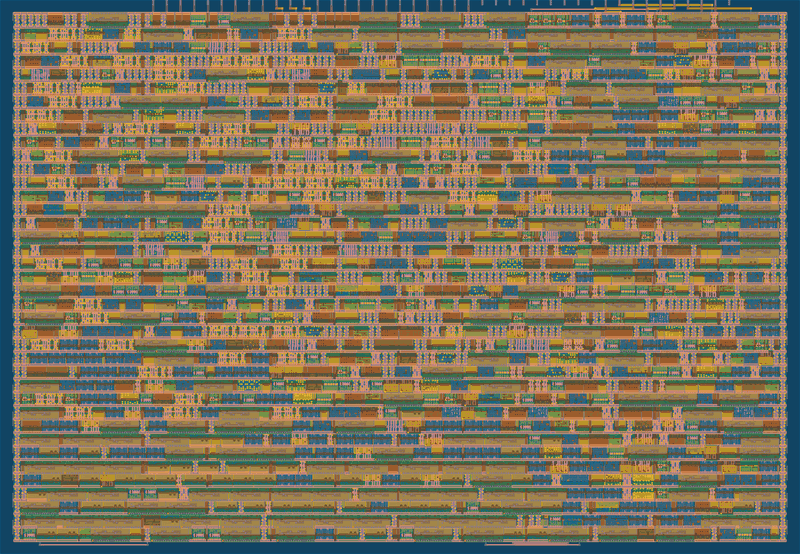
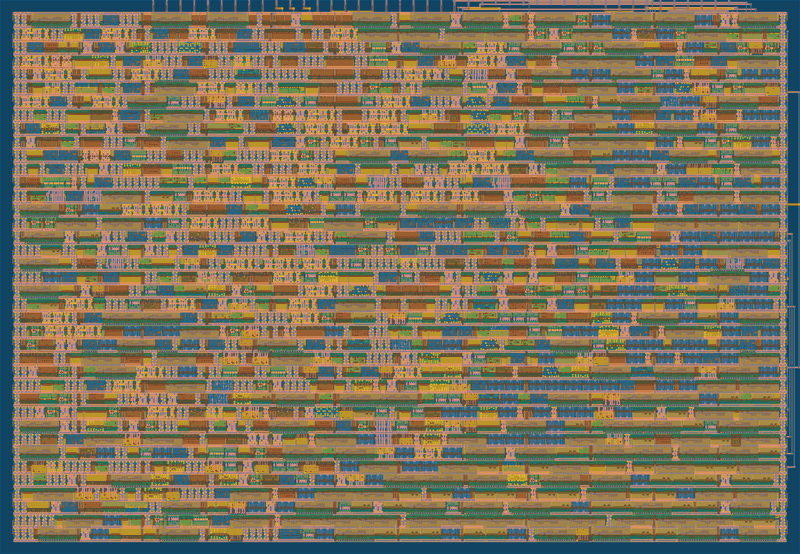
Halve the speed of the ball and paddle
Moves are spread over a 4-frame cycle: 2, 3, 4, 5 or 6 per 4 frames for 1x to
3x, half the old rate (a 2-bit frame_phase replaces odd_frame). The direction
now takes in each frame's collisions at frame_tick even in a frame without a
move; otherwise a cleared brick's bounce was lost and the ball ploughed on.

Hardened: utilisation 81.5% to 82.4%, 0 DRC, LVS and antenna errors, netlist
proven equivalent. The scenarios check the speeds over 4-frame windows and wait
up to two frames for a new ball to settle; test.py compares the paddle two
frames apart. The README's figures and layout picture are brought up to date.

diff --git a/test/system/scenarios.cpp b/test/system/scenarios.cpp
@@ -133,6 +133,13 @@ View run(Game &g, int frames, bool find_ball = true) {
 // the view once that game's wall is in.
 View start_game(Game &g) { return run(g, 4); }
 
+// A new ball goes onto the paddle at the next move, and at 1x every other frame has none:
+// runs up to 2 more frames for it to come to rest.
+View settle(Game &g, View v) {
+  for (int i = 0; i < 2 && !resting(v); i++) v = run(g, 1);
+  return v;
+}
+
 // ---- Scenarios ---------------------------------------------------------------------------
 
 // A new game shows the full wall, two spare balls and the ball resting on the paddle; it
@@ -149,12 +156,13 @@ void launch() {
   g.buttons = FIRE;
   run(g, 1);
   g.buttons = 0;
-  v = run(g, 10);
+  v = run(g, 20);
   CHECK(v.ball && v.ball_y < 440 - 10, "ball not launched upwards: y %d", v.ball_y);
 }
 
-// The paddle moves 4 px per frame while LEFT or RIGHT is held, from either the direct pins
-// or the gamepad; both together cancel out. The resting ball moves with it.
+// The paddle moves 4 px every other frame (at the base speed) while LEFT or RIGHT is held,
+// from either the direct pins or the gamepad; both together cancel out. The resting ball
+// moves with it.
 void steering() {
   for (int source = 0; source < 2; source++) {
     const char *name = source ? "gamepad" : "direct pins";
@@ -174,10 +182,10 @@ void steering() {
             v.paddle_x);
     }
     int x1 = v.paddle_x;
-    CHECK(x1 >= x0 + 32 && x1 <= x0 + 40, "%s: right moved the paddle %d -> %d", name, x0, x1);
+    CHECK(x1 >= x0 + 16 && x1 <= x0 + 24, "%s: right moved the paddle %d -> %d", name, x0, x1);
     press(g, true, false);
     int x2 = run(g, 10).paddle_x;
-    CHECK(x2 <= x1 - 32 && x2 >= x1 - 40, "%s: left moved the paddle %d -> %d", name, x1, x2);
+    CHECK(x2 <= x1 - 16 && x2 >= x1 - 24, "%s: left moved the paddle %d -> %d", name, x1, x2);
     press(g, true, true);
     int x3 = run(g, 2).paddle_x;
     int x4 = run(g, 10).paddle_x;
@@ -193,10 +201,10 @@ void paddle_limits() {
   g.reset();
   start_game(g);
   g.buttons = LEFT;
-  View v = run(g, 100);
+  View v = run(g, 200);
   CHECK(v.paddle_x == 64, "left limit %d", v.paddle_x);
   g.buttons = RIGHT;
-  v = run(g, 150);
+  v = run(g, 300);
   CHECK(v.paddle_x == 512, "right limit %d", v.paddle_x);
 }
 
@@ -289,7 +297,7 @@ void game_over_curtain() {
   g.buttons = FIRE;
   run(g, 1);
   g.buttons = 0;
-  v = run(g, 2);
+  v = settle(g, run(g, 2));
   CHECK(black_from_top(g) == 24, "after restart: %d black lines from the top", black_from_top(g));
   CHECK(v.bricks == 48 && v.lives == 2 && v.score == 0 && resting(v),
         "after restart: %d bricks, %d markers, score %d, ball at (%d, %d)", v.bricks, v.lives,
@@ -299,7 +307,7 @@ void game_over_curtain() {
 void game_over_and_restart() {
   Game g;
   g.reset();
-  int expected_lives = 2, frame = 0, missing = 0, since_launch = 1000, prev_y = -1;
+  int expected_lives = 2, frame = 0, missing = 0, since_launch = 1000, prev_y = -1, prev_dy = 0;
   View v = start_game(g);
   for (; frame < 20000; frame++) {
     // Keep the paddle against the left wall, and launch whenever the ball is resting.
@@ -307,11 +315,14 @@ void game_over_and_restart() {
     g.buttons = LEFT | (launch ? FIRE : 0);
     since_launch = launch ? 0 : since_launch + 1;
     v = run(g, 1);
-    // Every new ball starts at the base speed, 2 px per frame, however fast the last one was.
-    if (since_launch >= 2 && since_launch < 12)
-      CHECK(v.ball && std::abs(v.ball_y - prev_y) == 2, "frame %d: new ball moved %d px",
-            frame, std::abs(v.ball_y - prev_y));
+    // Every new ball starts at the base speed, a 2-px move every other frame, however fast
+    // the last one was.
+    int dy = std::abs(v.ball_y - prev_y);
+    if (since_launch >= 3 && since_launch < 12)
+      CHECK(v.ball && (dy == 0 || dy == 2) && dy + prev_dy == 2,
+            "frame %d: new ball moved %d then %d px", frame, prev_dy, dy);
     prev_y = v.ball_y;
+    prev_dy = dy;
     if (v.lives != expected_lives) {
       CHECK(v.lives == expected_lives - 1, "frame %d: life markers %d -> %d", frame,
             expected_lives, v.lives);
@@ -333,7 +344,7 @@ void game_over_and_restart() {
   g.buttons = FIRE;
   run(g, 1);
   g.buttons = 0;
-  v = run(g, 2);
+  v = settle(g, run(g, 2));
   CHECK(v.lives == 2, "after restart: life markers %d", v.lives);
   CHECK(v.score == 0, "after restart: score %d", v.score);
   CHECK(v.bricks == 48, "after restart: bricks %d", v.bricks);
@@ -349,7 +360,7 @@ void autoplay_clears_a_level() {
   int fewest = 48, frame = 0, lives_lost = 0, lives = 2, prev_bricks = 48;
   bool cleared = false;
   View v = start_game(g);
-  for (; frame < 40000 && !cleared; frame++) {
+  for (; frame < 80000 && !cleared; frame++) {
     v = run(g, 1, false);
     if (v.lives < lives) lives_lost += lives - v.lives;
     lives = v.lives;
@@ -368,40 +379,36 @@ void autoplay_clears_a_level() {
   CHECK(v.score == 480, "score %d after clearing the level", v.score);
 }
 
-// The ball speeds up a half step every 4 bricks it clears: vertically it moves 2 px per
-// frame at first (1x), then alternately 2 and 4 (1.5x), 4 (2x), alternately 4 and 6
-// (2.5x), and 6 px (3x) once it has cleared 16.
+// The ball speeds up a half step every 4 bricks it clears: vertically it moves 4 px per 4
+// frames at first (1x), then 6 (1.5x), 8 (2x), 10 (2.5x), and 12 px (3x) once it has
+// cleared 16.
 void ball_speeds_up() {
   Game g;
   g.reset();
   g.autoplay = true;
   View v = start_game(g);
   int prev_y = v.ball_y, prev_bricks = v.bricks, frame = 0, checked[5] = {};
-  int prev_dy = 0, prev_step = -1;
-  for (; frame < 10000 && v.lives == 2 && v.bricks > 28; frame++) {
+  int run_step = -1, run_len = 0, window[4] = {};  // vertical moves of the last 4 frames
+  for (; frame < 20000 && v.lives == 2 && v.bricks > 28; frame++) {
     v = run(g, 1);
     int dy = std::abs(v.ball_y - prev_y), cleared = 48 - v.bricks;
     bool steady = v.bricks == prev_bricks;  // the picture's count lags a brick cleared mid-frame
     prev_y = v.ball_y;
     prev_bricks = v.bricks;
-    if (!v.ball || dy == 0 || !steady || resting(v)) {
-      prev_step = -1;  // no alternation check across a gap
+    if (!v.ball || !steady || resting(v)) {
+      run_len = 0;  // no window across a gap
       continue;
     }
     int step = cleared / 4 < 4 ? cleared / 4 : 4;  // 0..4: 1x, 1.5x, 2x, 2.5x, 3x
-    if (step % 2 == 0) {
-      CHECK(dy == 2 + step, "frame %d: %d bricks cleared, moved %d px (expected %d)", frame,
-            cleared, dy, 2 + step);
-    } else {
-      CHECK(dy == 1 + step || dy == 3 + step, "frame %d: %d bricks cleared, moved %d px (expected %d or %d)",
-            frame, cleared, dy, 1 + step, 3 + step);
-      if (prev_step == step)
-        CHECK(dy != prev_dy, "frame %d: %d bricks cleared, moved %d px twice in a row", frame,
-              cleared, dy);
+    if (step != run_step) run_len = 0;
+    run_step = step;
+    window[run_len++ % 4] = dy;
+    if (run_len >= 4) {
+      int sum = window[0] + window[1] + window[2] + window[3];
+      CHECK(sum == 4 + 2 * step, "frame %d: %d bricks cleared, moved %d px in 4 frames (expected %d)",
+            frame, cleared, sum, 4 + 2 * step);
+      checked[step]++;
     }
-    checked[step]++;
-    prev_dy = dy;
-    prev_step = step;
   }
   printf("frame %5d: frames checked at 1x/1.5x/2x/2.5x/3x: %d/%d/%d/%d/%d\n", frame, checked[0],
          checked[1], checked[2], checked[3], checked[4]);
@@ -415,7 +422,7 @@ void brick_bounces() {
   Game g;
   g.reset();
   g.autoplay = true;
-  constexpr int N = 2500;
+  constexpr int N = 15000;
   static View v[N];
   start_game(g);
   for (int t = 0; t < N; t++) v[t] = run(g, 1);
@@ -431,8 +438,13 @@ void brick_bounces() {
              w.ball_y + 8 > by;
     };
     int c = overlaps(v[s - 1]) ? s - 1 : s;
-    const View &p = v[c - 1], &h = v[c], &n = v[c + 1];
-    if (!p.ball || !h.ball || !n.ball || !overlaps(h)) continue;
+    // Some frames have no move: compare with the nearest frames where the ball moved
+    auto moved = [&](int i) { return v[i].ball_x != v[c].ball_x || v[i].ball_y != v[c].ball_y; };
+    int pi = c - 1, ni = c + 1;
+    while (pi > 0 && !moved(pi)) pi--;
+    while (ni + 1 < N && !moved(ni)) ni++;
+    const View &p = v[pi], &h = v[c], &n = v[ni];
+    if (!p.ball || !h.ball || !n.ball || !overlaps(h) || !moved(pi) || !moved(ni)) continue;
     if (h.ball_x < 80 || h.ball_x > 560 || h.ball_y < 48) continue;  // walls could interfere
     bool left = h.ball_x < p.ball_x, up = h.ball_y < p.ball_y;
     int past_side = left ? bx + 62 - h.ball_x : h.ball_x + 8 - bx;
@@ -449,21 +461,22 @@ void brick_bounces() {
   CHECK(checked[0] > 0 && checked[1] > 0, "did not see both kinds of bounce");
 }
 
-// Waits for the launch, then returns whether the ball's vertical steps alternate 2, 4, 2 ...
-// px (1.5x) for `frames` frames.
-bool launch_steps_alternate_2_4(Game &g, View &v, int frames) {
+// Waits for the launch, then returns whether the ball rises at 1.5x for `frames` frames:
+// moves of 2 px, 6 px in every 4 frames.
+bool launch_at_1_5x(Game &g, View &v, int frames) {
   for (int i = 0; i < 2000 && resting(v); i++) v = run(g, 1);  // wait for the launch
-  int prev_y = v.ball_y, prev_dy = 0;
+  int prev_y = v.ball_y, dys[64] = {};
   bool ok = true;
-  for (int i = 0; i < frames; i++) {
+  for (int i = 0; i < frames && i < 64; i++) {
     v = run(g, 1);
-    int dy = prev_y - v.ball_y;
+    dys[i] = prev_y - v.ball_y;
     prev_y = v.ball_y;
-    if ((dy != 2 && dy != 4) || dy == prev_dy) {
-      printf("  launch frame %d: moved %d px up (previous %d)\n", i, dy, prev_dy);
-      ok = false;
+    if (dys[i] != 0 && dys[i] != 2) ok = false;
+    if (i >= 3 && dys[i] + dys[i - 1] + dys[i - 2] + dys[i - 3] != 6) ok = false;
+    if (!ok) {
+      printf("  launch frame %d: moved %d px up\n", i, dys[i]);
+      return false;
     }
-    prev_dy = dy;
   }
   return ok;
 }
@@ -483,7 +496,7 @@ void level_cleared() {
   CHECK(v.lives == 1, "frame %d: still %d spare balls", frame, v.lives);
   g.buttons = 0;
   g.autoplay = true;
-  for (; frame < 30000 && v.bricks > 0; frame++) v = run(g, 1, false);
+  for (; frame < 60000 && v.bricks > 0; frame++) v = run(g, 1, false);
   CHECK(v.bricks == 0, "frame %d: level not cleared (%d bricks)", frame, v.bricks);
   int pause = 0;
   for (; pause < 100 && v.bricks == 0; pause++) v = run(g, 1, false);
@@ -492,10 +505,10 @@ void level_cleared() {
   v = run(g, 1);  // past the filling frame
   CHECK(v.bricks == 48, "level 2 wall has %d bricks", v.bricks);
   CHECK(v.lives == 2, "%d spare balls after the level (expected one back)", v.lives);
-  CHECK(launch_steps_alternate_2_4(g, v, 12), "level 2 ball did not start at 1.5x");
+  CHECK(launch_at_1_5x(g, v, 16), "level 2 ball did not start at 1.5x");
   // Lose a ball in level 2: the next one starts at the level's speed again
   g.autoplay = false;
-  for (int i = 0; i < 5000 && v.lives == 2; i++) {
+  for (int i = 0; i < 10000 && v.lives == 2; i++) {
     g.buttons = LEFT;
     v = run(g, 1);
   }
@@ -504,7 +517,7 @@ void level_cleared() {
   g.buttons = FIRE;
   v = run(g, 1);
   g.buttons = 0;
-  CHECK(launch_steps_alternate_2_4(g, v, 12), "level 2 ball after a loss did not start at 1.5x");
+  CHECK(launch_at_1_5x(g, v, 16), "level 2 ball after a loss did not start at 1.5x");
 }
 
 // With no controller connected the game plays itself (demo): with no Gamepad PMOD at all,
@@ -520,17 +533,17 @@ void demo_until_a_controller_or_button() {
     else g.pmod_plugged = false;
     View v = run(g, 4);
     int bricks0 = v.bricks;
-    v = run(g, 600);
-    CHECK(v.bricks < bricks0, "%s: demo cleared no bricks in 600 frames (%d left)", name, v.bricks);
+    v = run(g, 900);
+    CHECK(v.bricks < bricks0, "%s: demo cleared no bricks in 900 frames (%d left)", name, v.bricks);
     CHECK(!resting(v), "%s: in the demo the ball is resting on the paddle", name);
     if (how) {
       g.pad_bits = 0;  // a controller is connected, nothing pressed
-      v = run(g, 3);
+      v = settle(g, run(g, 3));
     } else {
       g.buttons = LEFT;
       run(g, 1);
       g.buttons = 0;
-      v = run(g, 3);  // the new game starts at the next frame update, then its wall fills
+      v = settle(g, run(g, 3));  // the new game starts at the next frame update, then its wall fills
     }
     CHECK(v.bricks == 48 && v.lives == 2, "%s: then %d bricks, %d spare balls", name, v.bricks,
           v.lives);

diff --git a/test/test.py b/test/test.py
@@ -99,7 +99,9 @@ async def test_gamepad_and_paddle(dut):
     # reports on every change, and at least once a second in Tiny Tapeout's configuration.
     await send_gamepad(dut, 1 << 5)  # LEFT
     await send_gamepad(dut, 1 << 5)
+    # At the base speed the paddle moves every other frame: compare frames two apart
     x1 = await paddle_left_edge(dut)
+    await paddle_left_edge(dut)
     x2 = await paddle_left_edge(dut)
     dut._log.info(f"paddle x: {x1} -> {x2}")
     assert x1 is not None and x2 is not None

diff --git a/README.md b/README.md
@@ -6,8 +6,8 @@ A complete VGA brick-breaker game in a single [Tiny Tapeout](https://tinytapeout
 
 ![Tiny Breakout, mid-game](docs/img/gameplay.png)
 
-Tiny Breakout consists of some 15,600 transistors in 1,300 standard cells. There is no
-processor or frame buffer; the game keeps its state in 164 flip-flops.
+Tiny Breakout consists of some 15,800 transistors in 1,300 standard cells. There is no
+processor or frame buffer; the game keeps its state in 165 flip-flops.
 
 ## The game
 
@@ -26,8 +26,8 @@ drawn.
 - Collisions are read off the picture: a ball pixel drawn over a brick or the paddle is a hit.
   The ball's offset within its own 8×8 box at that pixel tells which edge of the brick it came
   through, so it bounces the right way.
-- A faster ball doesn't take bigger steps: it moves up to three times per frame, during
-  vertical blanking.
+- A faster ball doesn't take bigger steps: it moves more often, from every other frame up to
+  twice a frame, during vertical blanking.
 
 [![The hardened tile](docs/img/layout.png)](https://gds-explorer.tinytapeout.com/viewer?file=https://zvea.github.io/tiny-breakout/tinytapeout.oas&pdk=sky130A)
 
